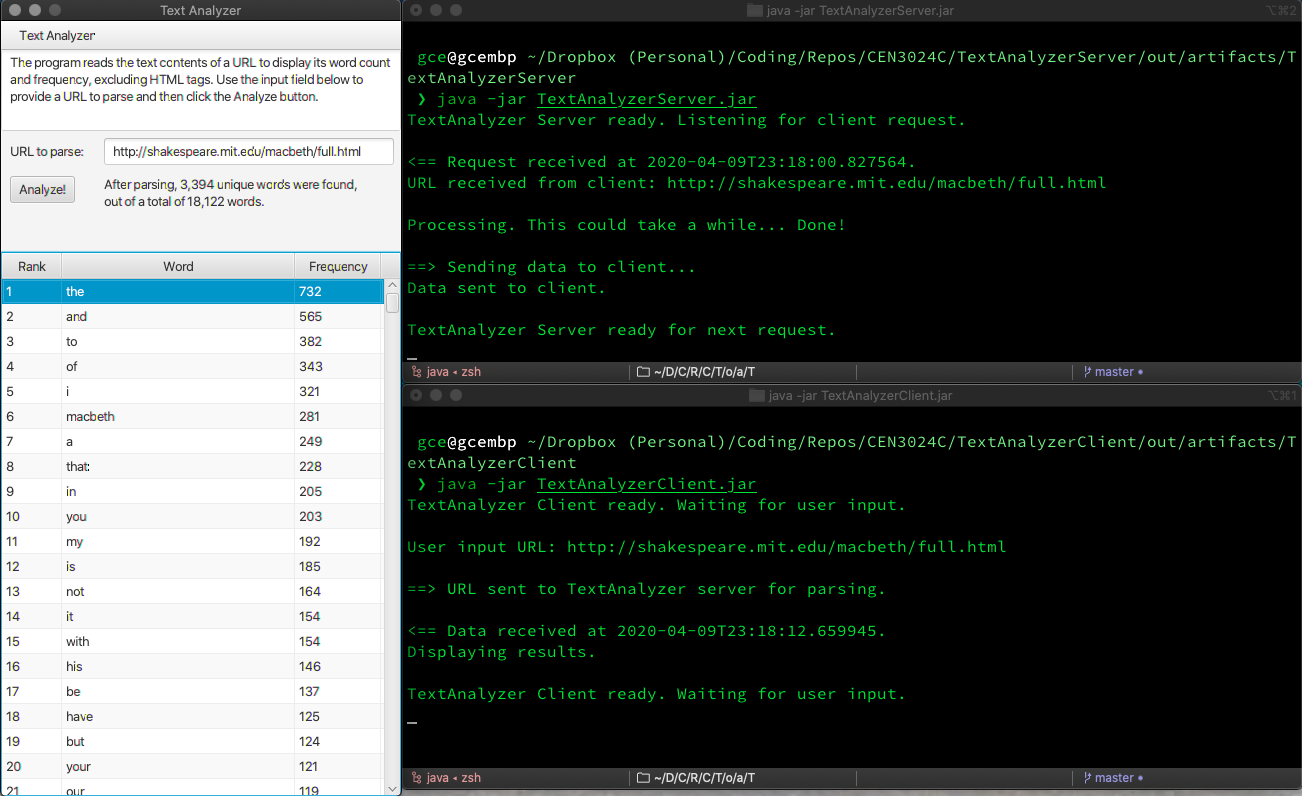
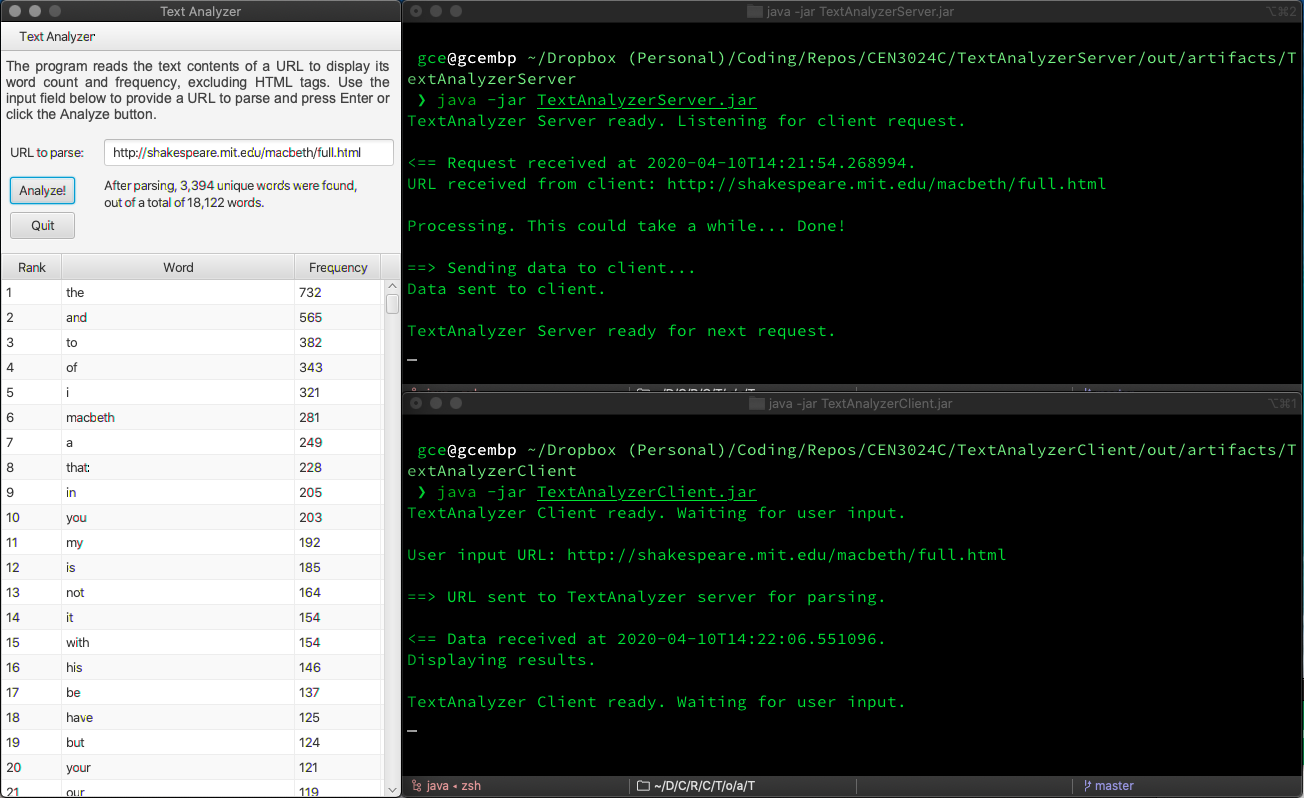
Fixed handling of Quit button

diff --git a/src/gce/textanalyzerclient/controller/TextAnalyzerClientController.java b/src/gce/textanalyzerclient/controller/TextAnalyzerClientController.java
@@ -129,7 +129,8 @@ public class TextAnalyzerClientController implements Initializable {
      */
     @FXML
     public void handleQuitButtonAction() {
-        System.exit(0);
+        urlTextField.setText("exit");
+        handleAnalyzeButtonAction();
     }
 
     /**
